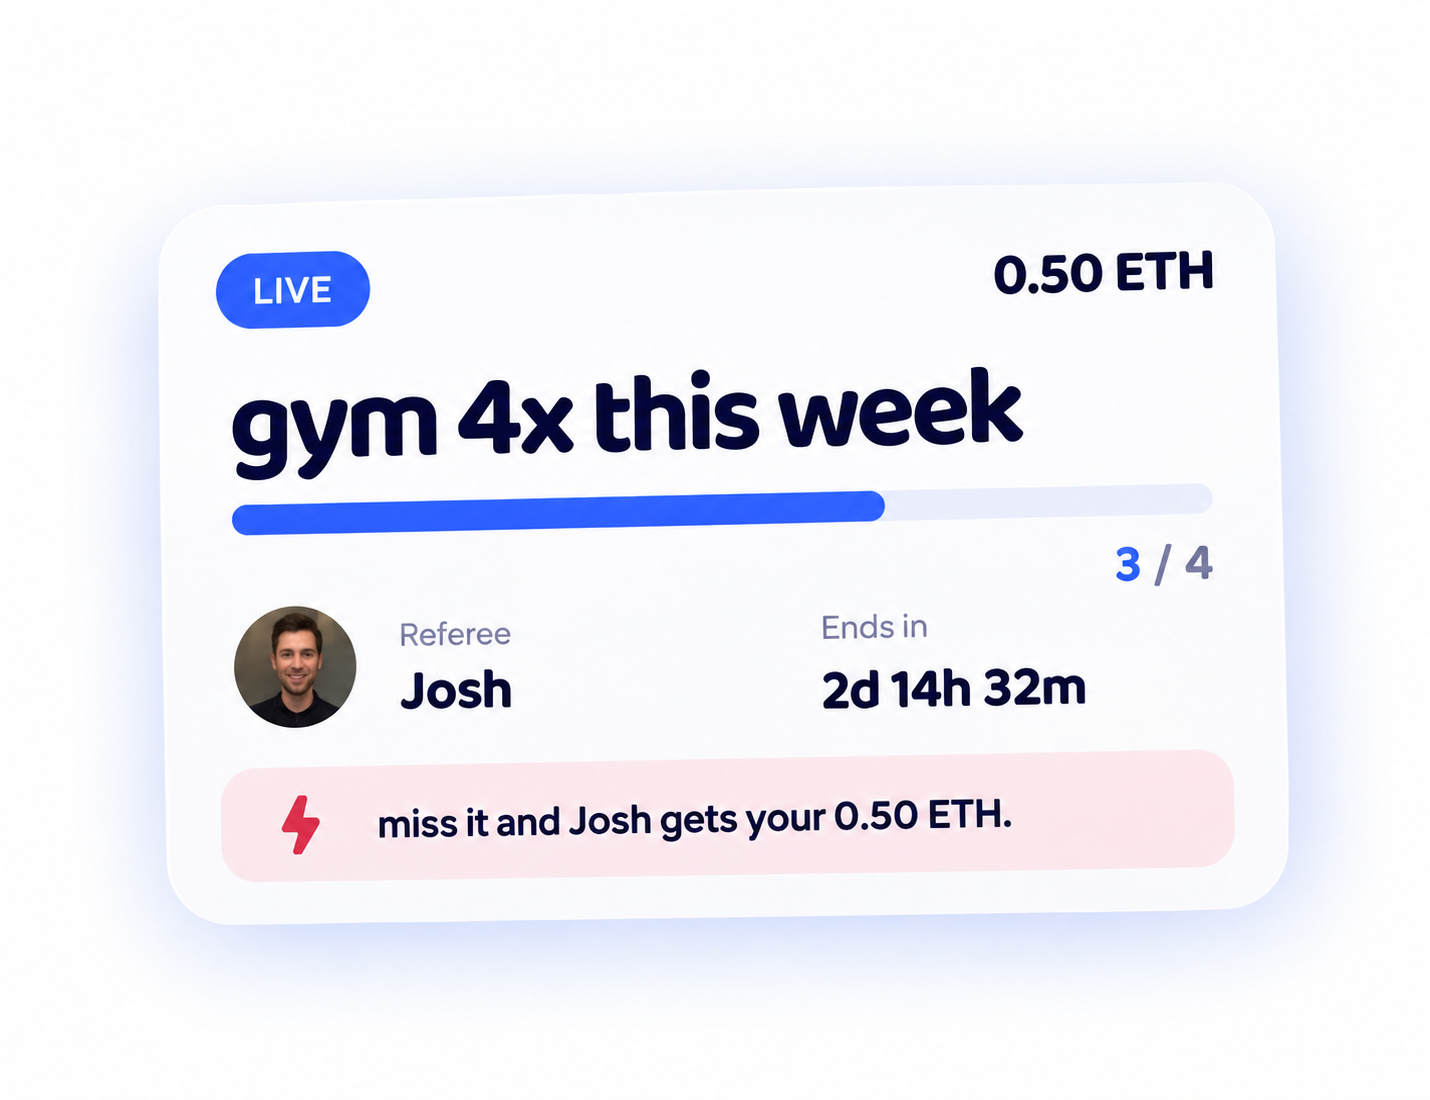
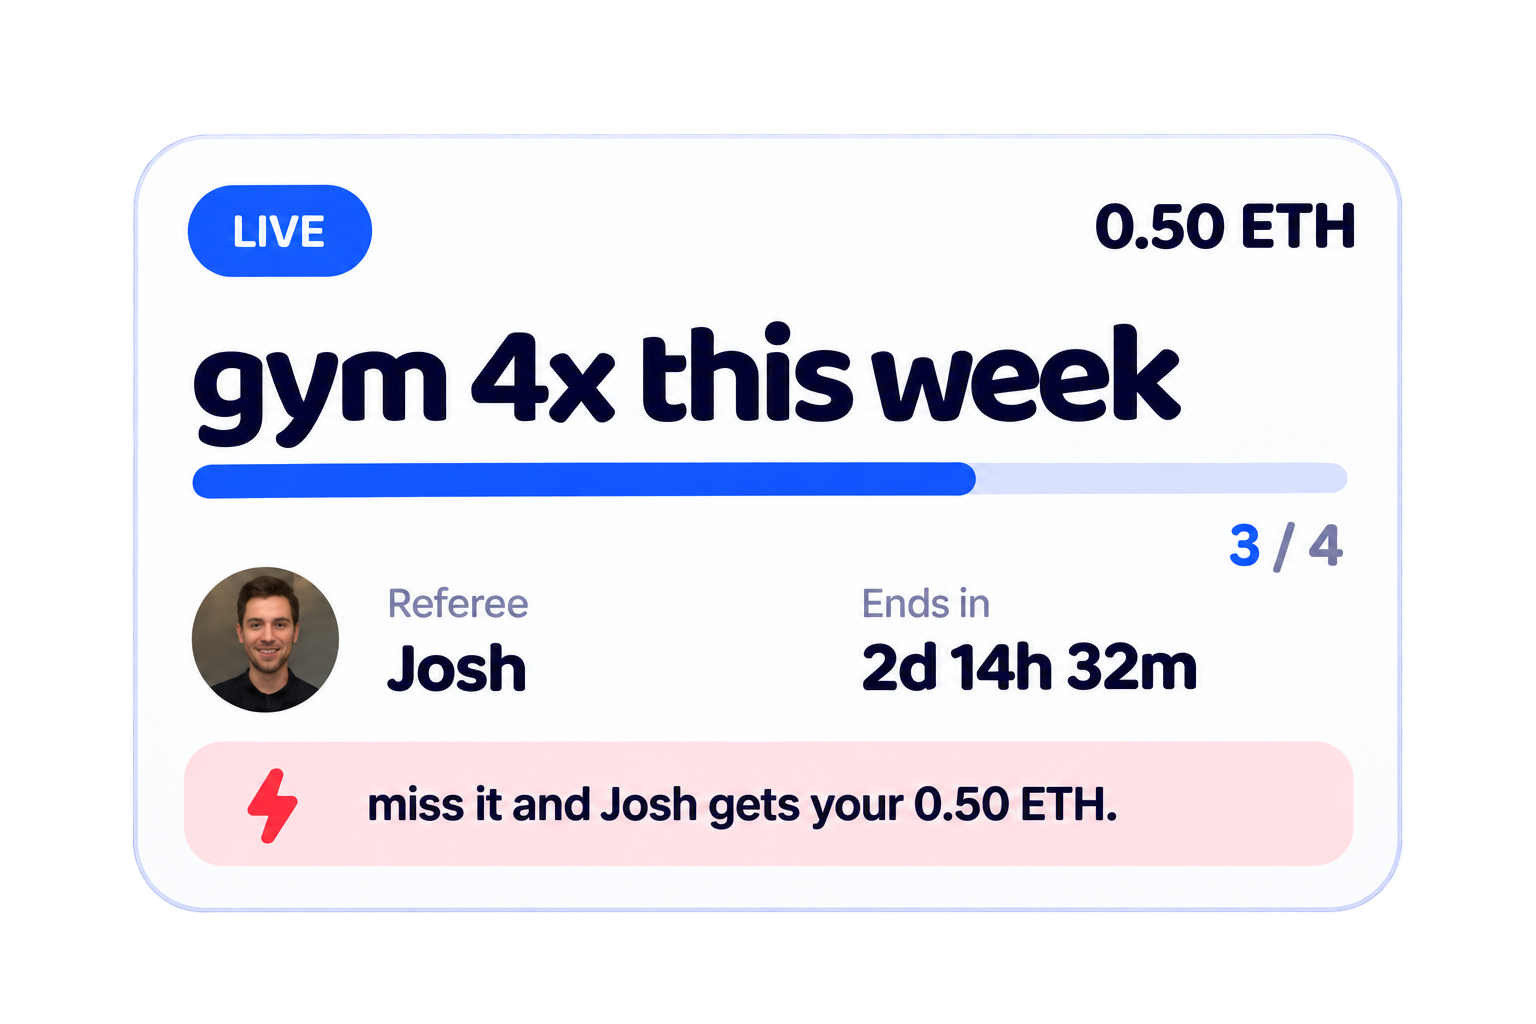
fix(app): clean landing hero image treatment

diff --git a/frontend/src/index.css b/frontend/src/index.css
@@ -204,30 +204,9 @@ header:empty {
   justify-self: end;
 }
 
-.landing-card-stack::before {
-  content: '';
-  position: absolute;
-  inset: 20px -42px -32px 70px;
-  border-radius: 999px;
-  background:
-    radial-gradient(circle at 60% 36%, rgba(64, 92, 255, 0.18), transparent 54%),
-    radial-gradient(circle at 30% 58%, rgba(238, 241, 255, 0.82), transparent 62%);
-  z-index: -1;
-}
-
 .landing-page .aurora::before,
 .landing-page .aurora::after {
   animation: none;
-}
-
-.hero-activity {
-  position: absolute;
-  left: -58px;
-  top: 58px;
-  z-index: 1;
-  width: 310px;
-  opacity: 0.88;
-  transform: rotate(-3deg);
 }
 
 .landing-main {
@@ -351,24 +330,9 @@ header:empty {
   padding: 168px max(24px, calc((100vw - 1080px) / 2 + 24px)) 112px;
   text-align: center;
   background:
-    radial-gradient(circle at 50% -10%, rgba(250, 248, 242, 0.95), rgba(250, 248, 242, 0) 34%),
-    radial-gradient(circle at 50% 20%, rgba(255, 255, 255, 0.15), transparent 34%),
     linear-gradient(135deg, var(--indigo), #1f286f 58%, var(--blue));
   color: var(--white);
   border: none;
-}
-
-.landing-final::before {
-  content: 'a';
-  position: absolute;
-  left: 50%;
-  top: 50%;
-  transform: translate(-50%, -43%);
-  font-family: var(--font-display);
-  font-size: min(72vw, 720px);
-  line-height: 1;
-  font-weight: 900;
-  color: rgba(255, 255, 255, 0.045);
 }
 
 .landing-final .conn-row {
@@ -1845,35 +1809,6 @@ select:focus {
     justify-items: end;
   }
 
-  .landing-card-stack::before {
-    inset: 16px -26px 74px 16px;
-  }
-
-  .hero-activity {
-    left: 0;
-    top: 42px;
-    width: 250px;
-  }
-
-  .landing-phone h2 {
-    margin-top: 42px;
-    font-size: clamp(46px, 15vw, 66px);
-  }
-
-  .landing-metrics {
-    display: grid;
-    grid-template-columns: repeat(3, minmax(0, 1fr));
-    gap: 8px;
-  }
-
-  .landing-metrics div {
-    padding: 10px;
-  }
-
-  .landing-metrics b {
-    font-size: 18px;
-  }
-
   .landing-main {
     grid-template-columns: 1fr;
     gap: 12px;
@@ -1942,10 +1877,6 @@ select:focus {
   .landing-final {
     margin-bottom: -64px;
     padding: 92px 18px 74px;
-  }
-
-  .landing-final::before {
-    font-size: 120vw;
   }
 
   .landing-footer {

diff --git a/frontend/src/App.tsx b/frontend/src/App.tsx
@@ -1190,17 +1190,8 @@ function LandingActivity() {
 }
 
 function LandingCardStack() {
-  const item = LANDING_ACTIVITY[1];
   return (
     <div className="landing-card-stack">
-      <div className={`activity-row static hero-activity ${item.badge.toLowerCase()}`}>
-        <div className="avatar">{item.who[0]}</div>
-        <div>
-          <p><b>{item.who}</b> <strong>{item.body}</strong></p>
-          <span>{item.meta}</span>
-        </div>
-        <div className="activity-side"><b>{item.badge}</b></div>
-      </div>
       <LandingAssertCard />
     </div>
   );
